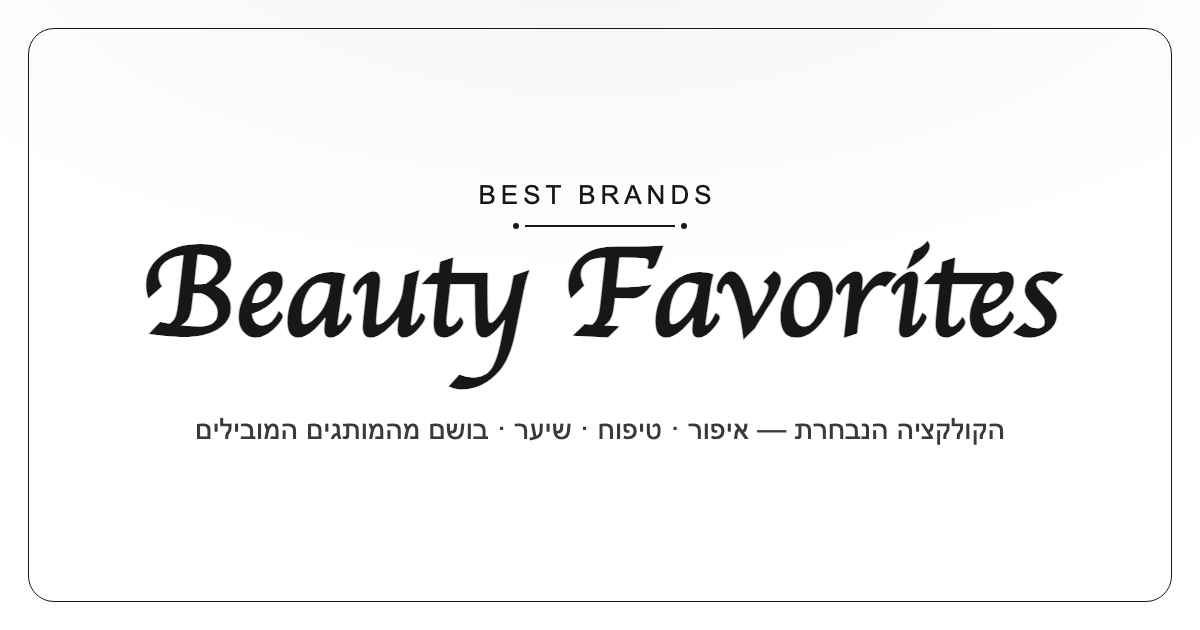
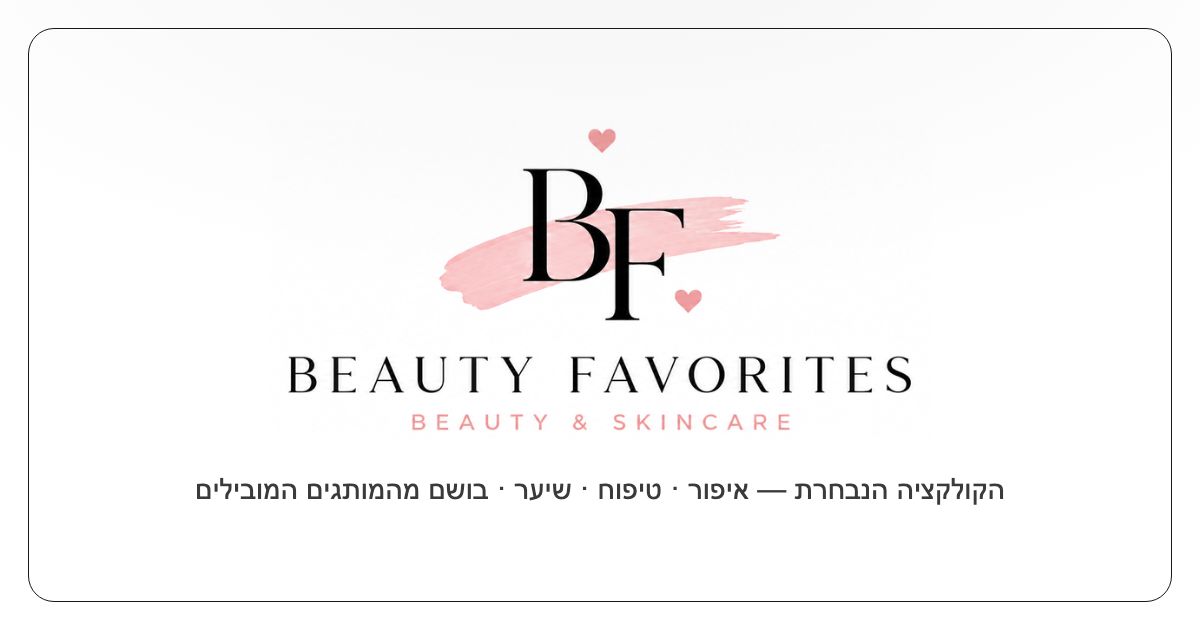
מיתוג: לוגו BF חדש — כותרת, פאביקון, כרטיס שיתוף, הירו

diff --git a/og-template.html b/og-template.html
@@ -14,8 +14,8 @@ html,body{width:1200px;height:630px;overflow:hidden;font-family:'Heebo',sans-ser
 .rule{width:150px;height:1.6px;background:#171717;margin:12px auto 4px;position:relative}
 .rule::before,.rule::after{content:"";position:absolute;top:-2px;width:6px;height:6px;border-radius:50%;background:#171717}
 .rule::before{left:-12px}.rule::after{right:-12px}
-h1{font-family:'Dancing Script',cursive;font-weight:700;font-size:130px;line-height:1;color:#171717;margin-top:-4px}
-.tag{font-size:29px;color:#3a3a3a;font-weight:400;margin-top:52px;line-height:1.4;padding:0 70px}
+.biglogo{width:660px;height:auto;display:block;mix-blend-mode:multiply}
+.tag{font-size:29px;color:#3a3a3a;font-weight:400;margin-top:30px;line-height:1.4;padding:0 70px}
 .badge{margin-top:22px;display:inline-block;font-size:20px;font-weight:600;color:#171717;
   background:#fff;border:1.5px solid #171717;border-radius:40px;padding:9px 30px}
 .strip{position:absolute;bottom:56px;left:0;right:0;display:flex;gap:18px;justify-content:center}
@@ -26,9 +26,7 @@ h1{font-family:'Dancing Script',cursive;font-weight:700;font-size:130px;line-hei
 </head>
 <body>
 <div class="card">
-  <div class="mark">Best Brands</div>
-  <div class="rule"></div>
-  <h1>Beauty Favorites</h1>
+  <img class="biglogo" src="logo-og.png" alt="">
   <div class="tag">הקולקציה הנבחרת — איפור · טיפוח · שיער · בושם מהמותגים המובילים</div>
 </div>
 </body>

diff --git a/build_catalog.py b/build_catalog.py
@@ -474,7 +474,7 @@ def main():
             else:
                 barcode_seen[bc] = v["id"]
 
-    og_image = (SITE_URL.rstrip("/") + "/og-image.png?v=bw4") if SITE_URL else "og-image.png?v=bw4"
+    og_image = (SITE_URL.rstrip("/") + "/og-image.png?v=bf1") if SITE_URL else "og-image.png?v=bf1"
 
     # ---- חיבור Supabase: מוזרק לדף כ-window.SUPA. ריק → הקטלוג עובד במצב וואטסאפ-טקסט בלבד ----
     supa_cfg = {"url": "", "anon": ""}
@@ -530,7 +530,7 @@ TEMPLATE = r"""<!DOCTYPE html>
 <meta name="robots" content="index,follow">
 <meta name="theme-color" content="#7c3aed">
 <script type="application/ld+json">
-{"@context":"https://schema.org","@type":"Store","name":"Beauty Favorites","url":"__SITE_URL__/","image":"__OG_IMAGE__","logo":"__SITE_URL__/logo.svg","description":"הקולקציה הנבחרת — איפור, טיפוח, שיער ובושם מהמותגים האהובים","telephone":"[phone redacted]","email":"[email redacted]","priceRange":"₪₪","areaServed":"IL","currenciesAccepted":"ILS"}
+{"@context":"https://schema.org","@type":"Store","name":"Beauty Favorites","url":"__SITE_URL__/","image":"__OG_IMAGE__","logo":"__SITE_URL__/logo-bf.png","description":"הקולקציה הנבחרת — איפור, טיפוח, שיער ובושם מהמותגים האהובים","telephone":"[phone redacted]","email":"[email redacted]","priceRange":"₪₪","areaServed":"IL","currenciesAccepted":"ILS"}
 </script>
 <!-- חיבור Supabase (anon ציבורי). אם לא הוגדר — הקטלוג נופל חזרה למצב וואטסאפ-טקסט בלבד. -->
 <script src="https://cdn.jsdelivr.net/npm/@supabase/supabase-js@2/dist/umd/supabase.js"></script>
@@ -538,8 +538,8 @@ TEMPLATE = r"""<!DOCTYPE html>
 <meta name="twitter:card" content="summary_large_image">
 <meta name="twitter:image" content="__OG_IMAGE__">
 <meta name="theme-color" content="#171717">
-<link rel="icon" type="image/svg+xml" href="favicon.svg">
-<link rel="apple-touch-icon" href="favicon.svg">
+<link rel="icon" type="image/png" href="favicon-bf.png">
+<link rel="apple-touch-icon" href="favicon-bf.png">
 <link rel="preconnect" href="https://fonts.googleapis.com">
 <link href="https://fonts.googleapis.com/css2?family=Heebo:wght@300;400;500;700;900&family=Cormorant+Garamond:wght@500;600&family=Dancing+Script:wght@500;600;700&family=Gveret+Levin+AlefAlefAlef&family=Suez+One&display=swap" rel="stylesheet">
 <style>
@@ -933,6 +933,9 @@ select.sort{font-family:var(--font);font-size:12px;color:var(--text);background:
 .hslide .htext{position:relative;z-index:2;color:#fff;padding:0 34px;max-width:62%}
 .hslide .tag{display:inline-block;background:#fff;color:#111;font-size:11px;font-weight:700;letter-spacing:.06em;padding:3px 11px;border-radius:20px;margin-bottom:12px}
 .hslide h2{font-family:var(--script);font-weight:400;font-size:34px;line-height:1.12;margin-bottom:6px}
+.hslide h2#hs1h{font-family:'Cormorant Garamond',serif;font-weight:600;text-transform:uppercase;letter-spacing:.13em;font-size:30px}
+.hslide .bfsub{display:block;font-family:'Heebo',sans-serif;font-size:12px;font-weight:500;letter-spacing:.32em;text-transform:uppercase;color:#f7c6cb;text-shadow:0 1px 10px rgba(0,0,0,.55);margin:4px 0 10px}
+.hslide h2#hs1h{text-shadow:0 1px 12px rgba(0,0,0,.35)}
 .hslide p{font-size:14px;font-weight:300;opacity:.92;margin-bottom:16px;max-width:340px}
 .hslide .cta{background:#fff;color:#111;border:none;font-size:14px;font-weight:700;padding:11px 26px;border-radius:30px;cursor:pointer}
 .hdots{position:absolute;bottom:14px;inset-inline:0;display:flex;gap:7px;justify-content:center;z-index:3}
@@ -1001,13 +1004,7 @@ select.sort{font-family:var(--font);font-size:12px;color:var(--text);background:
   <span id="promo3">⏱ אספקה עד 72 שעות</span>
 </div>
 <div class="brandbar">
-  <svg class="brandlogo" viewBox="0 0 360 150" width="158" height="66" onclick="goTop()" style="cursor:pointer" role="img" aria-label="Beauty Favorites">
-    <text x="180" y="48" text-anchor="middle" font-family="'Heebo',Arial,sans-serif" font-size="23" font-weight="500" letter-spacing="13" fill="#171717">BEAUTY</text>
-    <line x1="122" y1="64" x2="238" y2="64" stroke="#888888" stroke-width="1.3"/>
-    <circle cx="115" cy="64" r="2" fill="#888888"/>
-    <circle cx="245" cy="64" r="2" fill="#888888"/>
-    <text x="180" y="128" text-anchor="middle" font-family="'Dancing Script','Cormorant Garamond',cursive" font-size="64" font-weight="700" fill="#171717">Favorites</text>
-  </svg>
+  <img class="brandlogo" src="logo-bf.png" width="140" height="68" onclick="goTop()" style="cursor:pointer" alt="Beauty Favorites — Beauty &amp; Skincare">
   <button class="langbtn" id="langBtn" onclick="toggleLang()" aria-label="Language">العربية</button>
 </div>
 <div class="hcar" id="hcar">
@@ -1018,6 +1015,7 @@ select.sort{font-family:var(--font);font-size:12px;color:var(--text);background:
       <div class="htext">
         <span class="tag" id="hs1tag">חדש!</span>
         <h2 id="hs1h">Beauty Favorites</h2>
+        <span class="bfsub">Beauty &amp; Skincare</span>
         <p id="hs1p">הקולקציה הנבחרת — איפור, טיפוח, שיער ובושם מהמותגים המובילים בעולם.</p>
         <button class="cta" id="hs1c">לגילוי הקולקציה</button>
       </div>